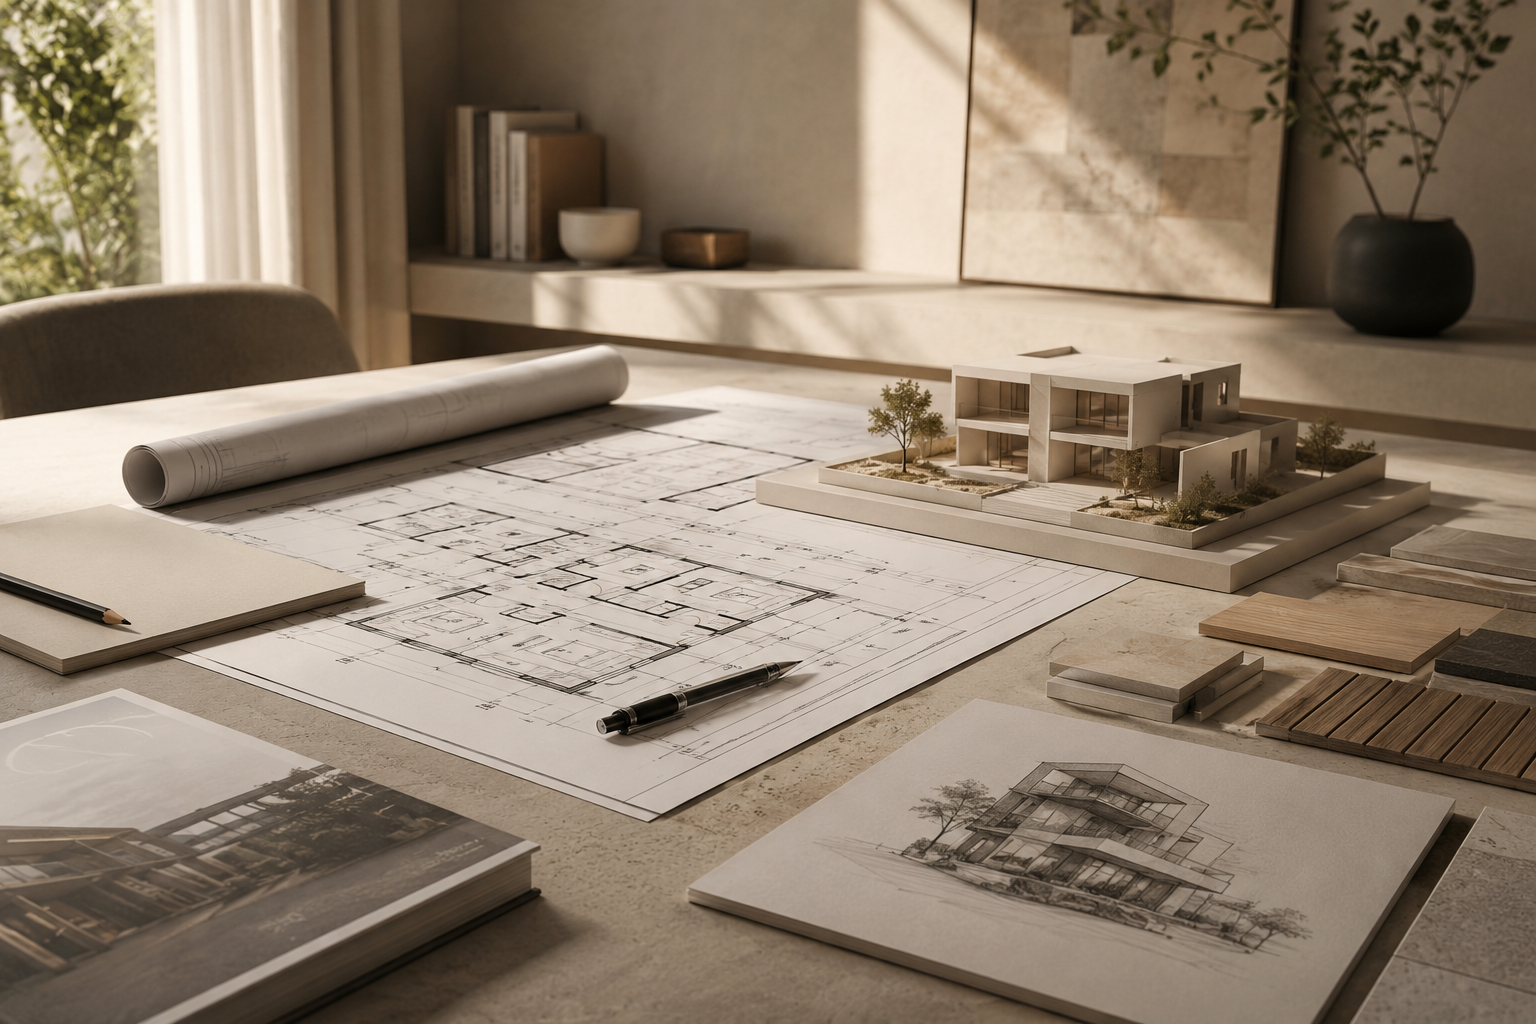
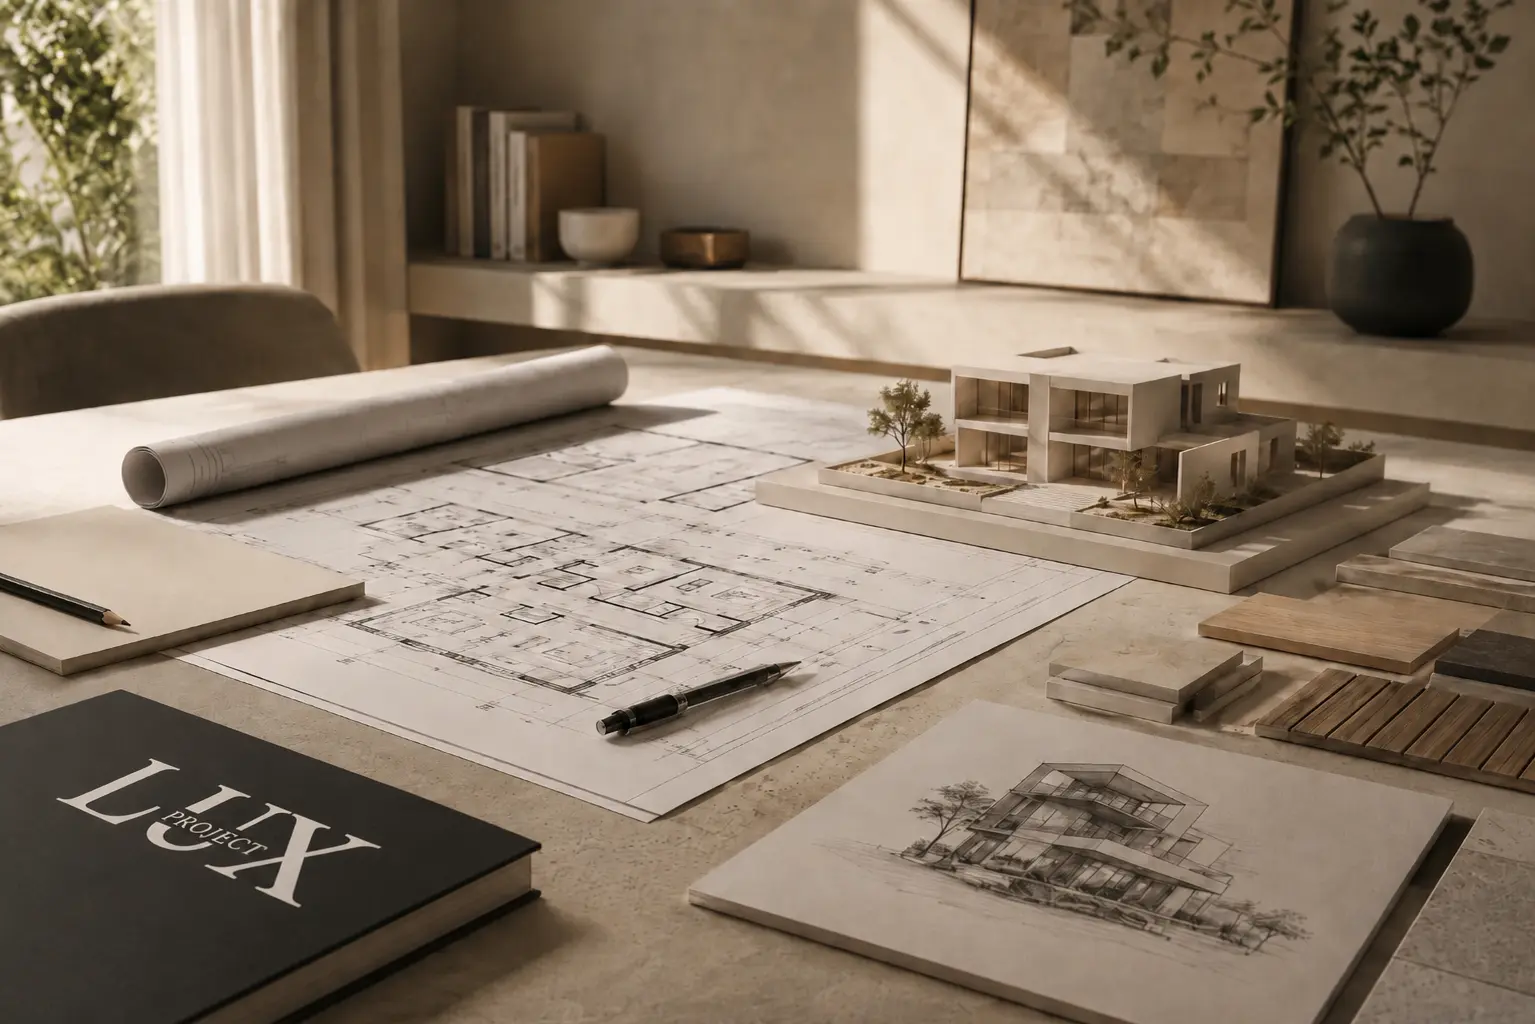
Crop Atmosfera photo on mobile, update atmosfera photos
The Atmosfera section photo is already edge-to-edge on mobile, but its
2.11:1 source ratio renders as a thin strip on narrow screens. Cropped
the sides via object-fit:cover at a 1.7:1 ratio on mobile only so the
room reads bigger; desktop keeps the full uncropped photo. Also swaps
in the updated foto-home-1/foto-home-2 photos for the section.

diff --git a/assets/css/style.css b/assets/css/style.css
@@ -936,6 +936,20 @@ body.has-hero-overlay .site-header.is-scrolled .brand img {
   height: auto;
 }
 
+/* Mobile only: the source photo is very wide (2.11:1) and the section
+   is already edge-to-edge (no side margins left to reclaim), so at
+   phone widths it renders as a thin strip. Crop a bit off the left and
+   right instead (object-fit:cover at a taller ratio) so the room reads
+   bigger/taller — desktop keeps the full, uncropped photo. */
+@media (max-width: 767px) {
+  .atmosfera-media img {
+    aspect-ratio: 1.7 / 1;
+    height: auto;
+    object-fit: cover;
+    object-position: center;
+  }
+}
+
 /* Generic full-bleed, natural-ratio image block — same edge-to-edge
    technique as the "Atmosfera" photo above, reusable wherever a photo
    needs to span the full viewport width without cropping or forcing a

diff --git a/index.html b/index.html
@@ -246,7 +246,7 @@
   <!-- ATMOSFERA: foto full-bleed -->
   <section class="atmosfera-section" id="atmosfera">
     <div class="atmosfera-media reveal">
-      <img src="assets/img/atmosfera/foto-home-1.jpg" alt="Interno di una residenza Lux Project" loading="lazy" width="1823" height="863">
+      <img src="assets/img/atmosfera/foto-home-1.webp" alt="Interno di una residenza Lux Project" loading="lazy" width="1823" height="863">
     </div>
   </section>
 